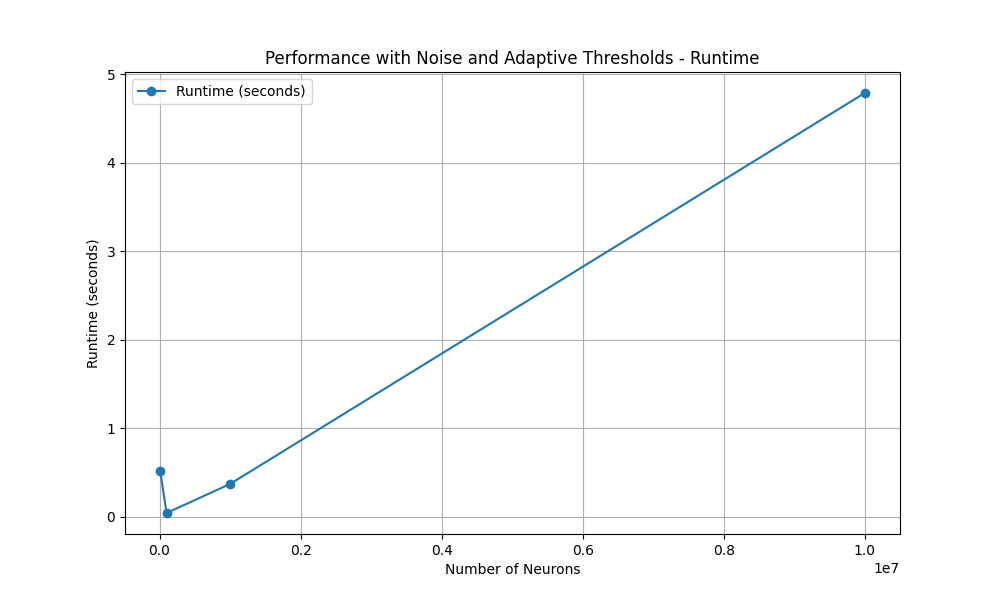
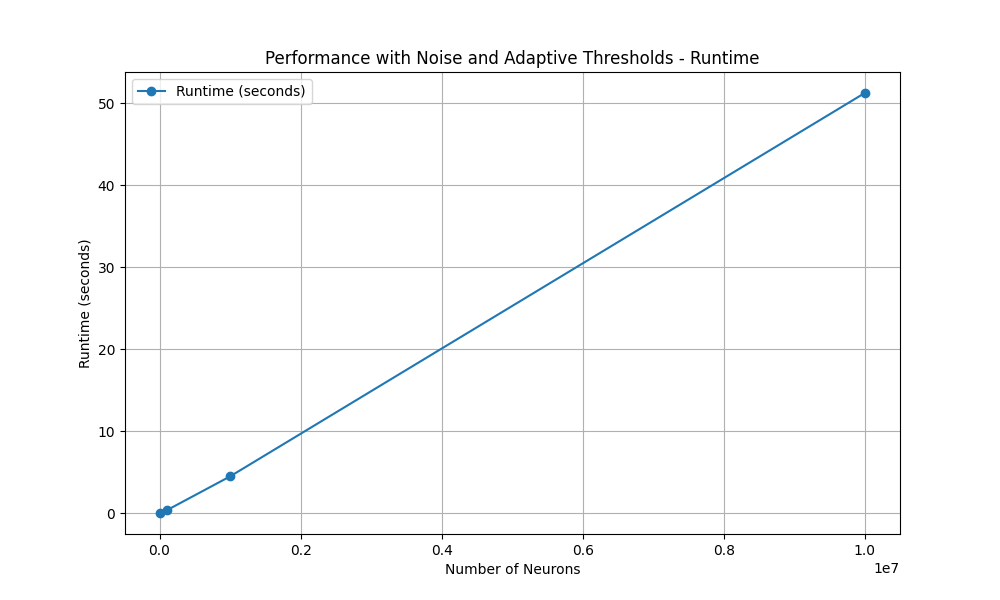
LIFNeuronGroup implemented for better performance (tested with up to 10,000,000 neurons)

diff --git a/src/test/performance_test.py b/src/test/performance_test.py
@@ -97,7 +97,7 @@ if __name__ == "__main__":
     # Test configurations
     neuron_counts = [10_000, 100_000, 1_000_000, 10_000_000]
     timesteps = 16
-    batch_size = 1  # Adjust as needed
+    batch_size = 10
     device = "cuda" if torch.cuda.is_available() else "cpu"
 
     # Performance tests

diff --git a/README.md b/README.md
@@ -88,22 +88,37 @@ pip install .
 ```
 
 ### PyTorch Integration
-This repository also includes PyTorch-compatible layers for LIF and Bernoulli neurons. You can use these layers in your neural networks:
+This repository also includes PyTorch-compatible layers for 
+LIF and Bernoulli neurons. Below is an example of using the 
+LIFNeuronGroup class with PyTorch:
 
 ```python
 import torch
+from lif.lif_neuron_group import LIFNeuronGroup
 
-from snn_neurons.torch_layers import TorchLIFLayer, TorchBernoulliLayer
+# Define the parameters for the LIF neuron group
+num_neurons = 100
+batch_size = 5
+timesteps = 10
+device = "cuda" if torch.cuda.is_available() else "cpu"
 
-# Example
-lif_layer = TorchLIFLayer(num_neurons=10)
-bernoulli_layer = TorchBernoulliLayer(num_neurons=10)
+# Initialize the neuron group
+neuron_group = LIFNeuronGroup(
+    num_neurons=num_neurons,
+    noise_std=0.1,
+    use_adaptive_threshold=True,
+    stochastic=True,
+    batch_size=batch_size,
+    device=device
+)
 
-# Forward pass
-input_tensor = torch.rand(2, 10)  # Batch size 2, 10 neurons
-lif_spikes = lif_layer(input_tensor)
-bernoulli_spikes = bernoulli_layer(input_tensor)
+# Simulate with random input currents
+inputs = torch.rand((timesteps, batch_size, num_neurons), device=device)
+for t in range(timesteps):
+    spikes = neuron_group.step(inputs[t])
+    print(f"Time step {t + 1}, Spikes: {spikes}")
 ```
+This example demonstrates how to set up and simulate spiking neural dynamics for multiple neurons in parallel, leveraging PyTorch for efficient computation.
 
 ---
 
